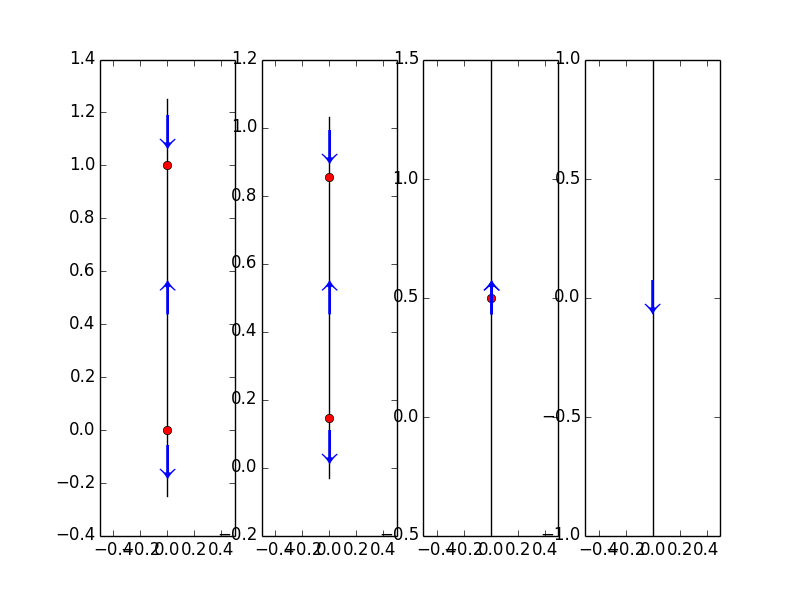
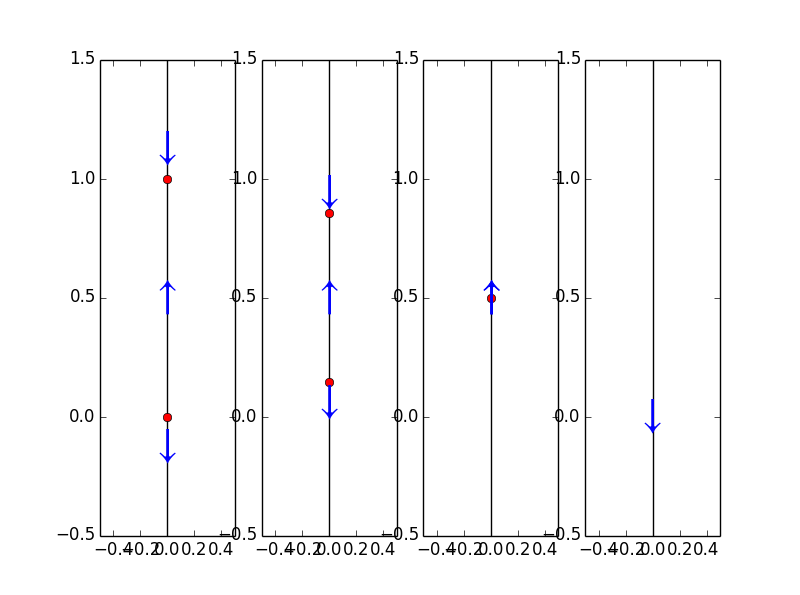
plot2

diff --git a/python_codes/08.py b/python_codes/08.py
@@ -1,32 +1,69 @@
 import sympy
-from sympy.abc import t
+from sympy.abc import t, a
 from sympy import Function, Derivative, dsolve, Eq, solve
 
-def narrowPhaseLine(formula):
+def narrowPhaseLine(formula, domain = np.linspace(-1,1), domainFix = False):
     solutions = solve(Eq(formula,0),y(t))
-    solutions.sort()
-    ran = solutions[-1]-solutions[0]
-    ydomain = np.linspace(float(solutions[0]-0.25*ran), float(solutions[-1]+0.25*ran))
-    fig = plt.figure(num=1, figsize=(1,4))
+    try:
+        solutions.sort()
+        ran = solutions[-1]-solutions[0]
+        if len(solutions) == 1:
+            intervals = [solutions[0]-0.5, solutions[0], solutions[0]+0.5]
+        else:
+            intervals = [float(solutions[0]-0.25*ran)]+solutions+[float(solutions[-1]+0.25*ran)]
 
+        if domainFix:
+            ydomain = domain
+        elif len(solutions) > 1:
+            ydomain = np.linspace(float(solutions[0]-0.25*ran), float(solutions[-1]+0.25*ran))
+        elif len(solutions) == 1:
+            ydomain = np.linspace(float(solutions[0]-1),float(solutions[0]+1))
+    except:
+        if domainFix:
+            ydomain = domain
+        else:
+            ydomain = np.linspace(-1,1)
+
+        if 0 in solutions:
+            signVals = [ydomain[12],ydomain[38]]
+        else:
+            signVals = [0]
+        solutions = []
+
+    fig = plt.figure(num=1, figsize=(1,4))
     plt.plot([0 for dummy in ydomain],ydomain, color = 'black')
     plt.plot([0 for dummy in solutions], solutions, 'or')
     plt.axis(xmin = -0.5, xmax = 0.5)
-    intervals = [float(solutions[0]-0.25*ran)]+solutions+[float(solutions[-1]+0.25*ran)]
-    for i in range(len(intervals)-1):
-        midpoint = (intervals[i]+intervals[i+1])/2.0
-        intervalSign = sign(formula.evalf(subs={'y(t)':midpoint}))
-        if intervalSign == -1:
-            plt.text(0, midpoint, u'\u2193',fontname='STIXGeneral', color = 'blue', size=30, va='center', ha='center', clip_on=True)
-        elif intervalSign == 1:
-            plt.text(0, midpoint, u'\u2191',fontname='STIXGeneral', color = 'blue', size=30, va='center', ha='center', clip_on=True)
-    return fig
 
-a = [0, -0.125, -0.25, -0.375]
-
+    if solutions != []:
+        for i in range(len(intervals)-1):
+            midpoint = (intervals[i]+intervals[i+1])/2.0
+            intervalSign = sign(formula.evalf(subs={'y(t)':midpoint}))
+            if intervalSign == -1:
+                plt.text(0, midpoint, u'\u2193',fontname='STIXGeneral', color = 'blue', size=30, va='center', ha='center', clip_on=True)
+            elif intervalSign == 1:
+                plt.text(0, midpoint, u'\u2191',fontname='STIXGeneral', color = 'blue', size=30, va='center', ha='center', clip_on=True)
+    else:
+        for val in signVals:
+            intervalSign = sign(formula.evalf(subs={'y(t)':val}))
+            if intervalSign == -1:
+                plt.text(0, val, u'\u2193',fontname='STIXGeneral', color = 'blue', size=30, va='center', ha='center', clip_on=True)
+            elif intervalSign == 1:
+                plt.text(0, val, u'\u2191',fontname='STIXGeneral', color = 'blue', size=30, va='center', ha='center', clip_on=True)
 
 
 y = Function('y')
-formula = y(t)*(1-y(t))-0.125
-fg = narrowPhaseLine(formula)
-fg.show()
+avals = [0, -0.125, -0.25, -0.375]
+formula = y(t)*(1-y(t))+a
+
+for i in range(len(avals)):
+    plt.subplot(1, len(avals), i+1)
+    narrowPhaseLine(formula.subs(a, avals[i]), np.linspace(-0.5,1.5),True)
+
+
+formula = y(t)**3-a*y(t)
+avals = [-3, -2,-1, 0, 1, 2, 3]
+
+for i in range(len(avals)):
+    plt.subplot(1, len(avals), i+1)
+    narrowPhaseLine(formula.subs(a, avals[i]),np.linspace(-3,3), True)
